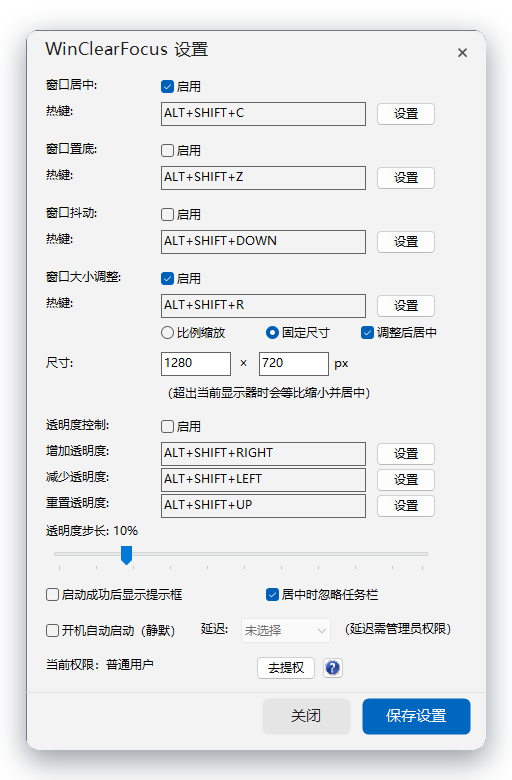
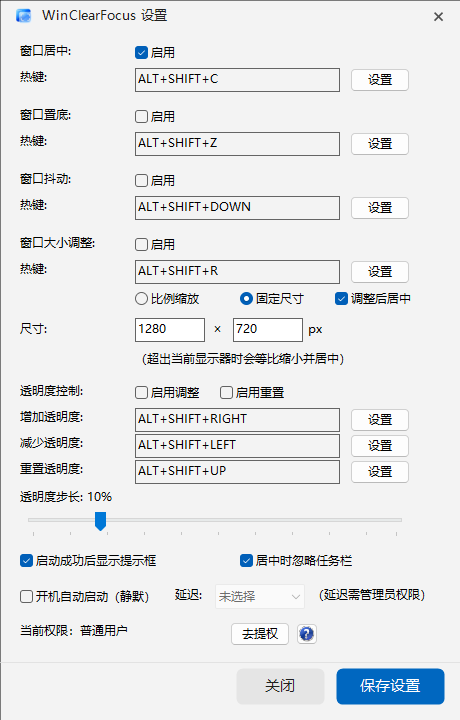
feat(ui): 应用中文名“窗口控制与聚焦”并优化标题栏
- 新增统一中文显示名，更新托盘 Tooltip、启动提示、README 与 exe 版本信息

- 启动提示改为原生对话框：标题栏显示程序图标 + WinClearFocus v1.2.0，正文精简

- 设置窗口标题栏改为 16px 程序图标 + 13px 常规字号，高度收紧到 32px

- 更新 README 截图（启动提示 / 比例缩放 / 固定尺寸）

- 修复 RC 中文编码（#pragma code_page 65001）

diff --git a/src/ui/SettingsRenderer.cpp b/src/ui/SettingsRenderer.cpp
@@ -2,11 +2,22 @@
 
 #include <gdiplus.h>
 
+#include "resource.h"
+
 namespace wcf {
 namespace SettingsRenderer {
 namespace {
 
 const COLORREF kSettingsBg = RGB(243, 243, 243);
+
+// 标题栏左侧的小图标。静态加载一次，随进程存活。
+HICON TitleIcon()
+{
+    static HICON icon = (HICON)LoadImageW(
+        GetModuleHandleW(NULL), MAKEINTRESOURCEW(IDI_WINCLEARFOCUS), IMAGE_ICON,
+        GetSystemMetrics(SM_CXSMICON), GetSystemMetrics(SM_CYSMICON), 0);
+    return icon;
+}
 
 void FillRoundedRect(Gdiplus::Graphics& g, const RECT& r, int radius,
                      const Gdiplus::Color& color)
@@ -45,7 +56,8 @@ HBRUSH BackgroundBrush()
 
 RECT CloseButtonRect(int clientWidth)
 {
-    RECT r = { clientWidth - 40, 6, clientWidth - 8, 38 };
+    // 28×28 热区，垂直居中于 32px 标题栏
+    RECT r = { clientWidth - 36, 2, clientWidth - 8, 30 };
     return r;
 }
 
@@ -90,12 +102,12 @@ void Paint(HWND hwnd, const HoverState& hover)
         Gdiplus::SolidBrush bg(Gdiplus::Color(243, 243, 243));
         g.FillRectangle(&bg, 0, 0, w, h);
 
-        // 标题
-        Gdiplus::Font titleFont(L"Microsoft YaHei UI", 17.0f,
+        // 标题：小图标在左（绘制于 GDI+ 之后），文字从图标右侧开始
+        Gdiplus::Font titleFont(L"Microsoft YaHei UI", 13.0f,
                                 Gdiplus::FontStyleRegular, Gdiplus::UnitPixel);
         Gdiplus::SolidBrush titleBrush(Gdiplus::Color(32, 32, 32));
         g.DrawString(L"WinClearFocus 设置", -1, &titleFont,
-                     Gdiplus::PointF(16.0f, 8.0f), &titleBrush);
+                     Gdiplus::PointF(40.0f, 7.0f), &titleBrush);
 
         // 关闭按钮：圆形，悬停变红
         const RECT cb = CloseButtonRect(w);
@@ -131,6 +143,15 @@ void Paint(HWND hwnd, const HoverState& hover)
         FillRoundedRect(g, xb, 6, hover.cancel ? Gdiplus::Color(214, 214, 214)
                                                : Gdiplus::Color(229, 229, 229));
         DrawCenteredText(g, L"关闭", xb, btnFont, Gdiplus::Color(32, 32, 32));
+    }
+
+    // GDI+ 绘制结束后再叠加标题栏小图标
+    HICON icon = TitleIcon();
+    if (icon) {
+        const int iconW = GetSystemMetrics(SM_CXSMICON);
+        const int iconH = GetSystemMetrics(SM_CYSMICON);
+        DrawIconEx(memDC, 16, (kTitleBarHeight - iconH) / 2, icon,
+                   iconW, iconH, 0, NULL, DI_NORMAL);
     }
 
     BitBlt(hdc, 0, 0, w, h, memDC, 0, 0, SRCCOPY);

diff --git a/src/ui/StartupDialog.cpp b/src/ui/StartupDialog.cpp
@@ -1,0 +1,77 @@
+#include "ui/StartupDialog.h"
+
+#include <stdio.h>
+
+#include "app/Constants.h"
+#include "resource.h"
+
+namespace wcf {
+namespace {
+
+HICON g_bigIcon = NULL;
+HICON g_smallIcon = NULL;
+
+INT_PTR CALLBACK StartupDialogProc(HWND hDlg, UINT uMsg, WPARAM wParam, LPARAM lParam)
+{
+    switch (uMsg) {
+    case WM_INITDIALOG:
+    {
+        // 标题栏：程序图标 + 英文名 + 版本
+        SetWindowTextW(hDlg, L"WinClearFocus " WCF_APP_VERSION);
+
+        g_bigIcon = (HICON)LoadImageW(
+            GetModuleHandleW(NULL), MAKEINTRESOURCEW(IDI_WINCLEARFOCUS), IMAGE_ICON,
+            GetSystemMetrics(SM_CXICON), GetSystemMetrics(SM_CYICON), 0);
+        g_smallIcon = (HICON)LoadImageW(
+            GetModuleHandleW(NULL), MAKEINTRESOURCEW(IDI_WINCLEARFOCUS), IMAGE_ICON,
+            GetSystemMetrics(SM_CXSMICON), GetSystemMetrics(SM_CYSMICON), 0);
+
+        if (g_bigIcon) {
+            SendMessageW(hDlg, WM_SETICON, ICON_BIG, (LPARAM)g_bigIcon);
+        }
+        if (g_smallIcon) {
+            SendMessageW(hDlg, WM_SETICON, ICON_SMALL, (LPARAM)g_smallIcon);
+        }
+
+        wchar_t line1[128];
+        swprintf_s(line1, 128, L"%s已在系统托盘运行。", WCF_APP_NAME_ZH);
+        SetDlgItemTextW(hDlg, IDC_STARTUP_LINE1, line1);
+        SetDlgItemTextW(hDlg, IDC_STARTUP_LINE2, L"右键点击托盘图标进行设置。");
+        SetDlgItemTextW(hDlg, IDC_STARTUP_LINE3, L"提示：命令行加 -silent 可静默启动");
+        return TRUE;
+    }
+
+    case WM_COMMAND:
+        if (LOWORD(wParam) == IDOK || LOWORD(wParam) == IDCANCEL) {
+            EndDialog(hDlg, LOWORD(wParam));
+            return TRUE;
+        }
+        break;
+
+    case WM_CLOSE:
+        EndDialog(hDlg, IDCANCEL);
+        return TRUE;
+    }
+
+    return FALSE;
+}
+
+} // namespace
+
+void ShowStartupDialog(HINSTANCE hInstance, HWND owner)
+{
+    DialogBoxParamW(hInstance, MAKEINTRESOURCEW(IDD_STARTUP_DIALOG), owner,
+                    StartupDialogProc, 0);
+
+    // 对话框关闭后再释放标题栏图标
+    if (g_bigIcon) {
+        DestroyIcon(g_bigIcon);
+        g_bigIcon = NULL;
+    }
+    if (g_smallIcon) {
+        DestroyIcon(g_smallIcon);
+        g_smallIcon = NULL;
+    }
+}
+
+} // namespace wcf

diff --git a/src/main.cpp b/src/main.cpp
@@ -2,7 +2,6 @@
 #include <commctrl.h>
 #include <gdiplus.h>
 #include <shellapi.h>
-#include <stdio.h>
 
 #include "app/AppContext.h"
 #include "app/Constants.h"
@@ -10,6 +9,7 @@
 #include "core/HotkeyManager.h"
 #include "core/Settings.h"
 #include "ui/MainWindow.h"
+#include "ui/StartupDialog.h"
 #include "ui/TrayIcon.h"
 
 namespace {
@@ -82,21 +82,10 @@ int WINAPI WinMain(HINSTANCE hInstance, HINSTANCE hPrevInstance,
     wcf::TrayIcon::Create(wcf::g_mainWindow);
     wcf::RegisterHotkeys(wcf::g_mainWindow);
 
-    // 显示启动提示：命令行 -silent 绝对静默；否则由 config.ini 决定
+    // 显示启动提示：命令行 -silent 绝对静默；否则由 config.ini 决定。
+    // 使用原生对话框，标题栏显示程序图标 + 英文名 + 版本。
     if (!forceSilent && wcf::Settings().showStartupMessage != 0) {
-        wchar_t startupMsg[600];
-        swprintf_s(startupMsg, 600,
-            L"WinClearFocus %s 已启动！\n\n默认热键：\n"
-            L"- Alt+Shift+C 窗口居中\n"
-            L"- Alt+Shift+↓ 窗口抖动（默认关闭）\n"
-            L"- Alt+Shift+←/→ 调整窗口透明度（默认关闭）\n"
-            L"- Alt+Shift+↑ 重置透明度（默认关闭）\n"
-            L"- Alt+Shift+Z 窗口置底（默认关闭）\n"
-            L"- Alt+Shift+R 调整窗口大小（默认关闭）\n\n"
-            L"右键点击托盘图标进行设置\n\n"
-            L"提示：命令行加 -silent 可静默启动",
-            WCF_APP_VERSION);
-        MessageBoxW(NULL, startupMsg, L"WinClearFocus 启动成功", MB_OK | MB_ICONINFORMATION);
+        wcf::ShowStartupDialog(hInstance, wcf::g_mainWindow);
     }
 
     // 消息循环

diff --git a/src/ui/MainWindow.cpp b/src/ui/MainWindow.cpp
@@ -67,15 +67,20 @@ LRESULT CALLBACK MainWindowProc(HWND hwnd, UINT uMsg, WPARAM wParam, LPARAM lPar
 
 bool InitializeMainWindow(HINSTANCE hInstance)
 {
-    WNDCLASSW wc = { 0 };
+    WNDCLASSEXW wc = { 0 };
+    wc.cbSize = sizeof(wc);
     wc.lpfnWndProc = MainWindowProc;
     wc.hInstance = hInstance;
     wc.lpszClassName = WCF_MAIN_WINDOW_CLASS;
     wc.hCursor = LoadCursorW(NULL, IDC_ARROW);
     wc.hbrBackground = (HBRUSH)(COLOR_WINDOW + 1);
     wc.hIcon = LoadIconW(hInstance, MAKEINTRESOURCEW(IDI_WINCLEARFOCUS));
+    wc.hIconSm = (HICON)LoadImageW(hInstance, MAKEINTRESOURCEW(IDI_WINCLEARFOCUS),
+                                  IMAGE_ICON,
+                                  GetSystemMetrics(SM_CXSMICON),
+                                  GetSystemMetrics(SM_CYSMICON), 0);
 
-    if (!RegisterClassW(&wc)) {
+    if (!RegisterClassExW(&wc)) {
         return false;
     }
 

diff --git a/src/ui/SettingsWindow.cpp b/src/ui/SettingsWindow.cpp
@@ -585,12 +585,10 @@ void ShowSettingsWindow()
     const int y = (screenHeight - windowHeight) / 2;
 
     // 无边框窗口；标题栏、圆角和底部按钮由自绘/DWM 提供
-    wchar_t windowTitle[100];
-    swprintf_s(windowTitle, 100, L"WinClearFocus %s 设置", WCF_APP_VERSION);
     g_settingsWindow = CreateWindowExW(
         WS_EX_APPWINDOW,
         WCF_SETTINGS_WINDOW_CLASS,
-        windowTitle,
+        L"WinClearFocus 设置",
         WS_POPUP | WS_CLIPCHILDREN,
         x, y,
         windowWidth, windowHeight,

diff --git a/src/ui/TrayIcon.cpp b/src/ui/TrayIcon.cpp
@@ -29,7 +29,7 @@ void Create(HWND owner)
     }
 
     swprintf_s(g_nid.szTip, sizeof(g_nid.szTip) / sizeof(wchar_t),
-               L"WinClearFocus %s - 窗口透明度控制", WCF_APP_VERSION);
+               L"WinClearFocus %s - %s", WCF_APP_VERSION, WCF_APP_NAME_ZH);
 
     Shell_NotifyIconW(NIM_ADD, &g_nid);
 }

diff --git a/res/resource.h b/res/resource.h
@@ -3,4 +3,8 @@
 // 供 WinClearFocus.rc 使用
 //
 #define IDI_WINCLEARFOCUS                101
+#define IDD_STARTUP_DIALOG               102
+#define IDC_STARTUP_LINE1                1003
+#define IDC_STARTUP_LINE2                1004
+#define IDC_STARTUP_LINE3                1005
 

diff --git a/src/ui/StartupDialog.h b/src/ui/StartupDialog.h
@@ -1,0 +1,10 @@
+#pragma once
+
+#include <windows.h>
+
+namespace wcf {
+
+// 显示启动提示对话框（模态）。标题栏显示程序图标 + 英文名 + 版本。
+void ShowStartupDialog(HINSTANCE hInstance, HWND owner);
+
+} // namespace wcf

diff --git a/src/ui/SettingsRenderer.h b/src/ui/SettingsRenderer.h
@@ -5,7 +5,7 @@
 namespace wcf {
 namespace SettingsRenderer {
 
-constexpr int kTitleBarHeight = 36;
+constexpr int kTitleBarHeight = 32;
 constexpr int kWindowWidth = 460;
 constexpr int kWindowHeight = 720;   // 紧凑排版，适配 1366x768
 

diff --git a/src/app/Constants.h b/src/app/Constants.h
@@ -2,6 +2,7 @@
 
 // ===== 应用信息 =====
 #define WCF_APP_VERSION L"v1.2.0"
+#define WCF_APP_NAME_ZH L"窗口控制与聚焦"
 
 // ===== 窗口类名 =====
 #define WCF_MAIN_WINDOW_CLASS     L"WinClearFocusClass"

diff --git a/README.md b/README.md
@@ -3,8 +3,9 @@
 <img src="res/WinClearFocus.ico" width="128"/>
 </div>
 <h1 align="center">WinClearFocus</h1>
+<p align="center"><b>窗口控制与聚焦</b></p>
 
-<p align="center">一个轻量级的 Windows 窗口辅助工具：调透明度、居中、置底、抖动——全部一个热键搞定。</p>
+<p align="center">一个轻量级的 Windows 窗口辅助工具：调透明度、居中、置底、抖动、调整尺寸——全部一个热键搞定。</p>
 
 <p align="center">
   <img alt="Platform" src="https://img.shields.io/badge/Platform-Windows%2010%20%7C%2011-0078D4?logo=windows&logoColor=white">
@@ -14,7 +15,7 @@
   <img alt="Size" src="https://img.shields.io/badge/Binary-%E7%BA%A6%201%20MB-brightgreen">
 </p>
 
-WinClearFocus 基于 [iwill123/Window2Clear](https://github.com/iwill123/Window2Clear) 二次开发，使用 **C++ + 纯 Win32 API** 实现，不使用任何第三方 UI 框架。单文件绿色运行、托盘常驻，界面由 GDI+ 自绘并启用 Windows 11 视觉样式。
+WinClearFocus（窗口控制与聚焦）基于 [iwill123/Window2Clear](https://github.com/iwill123/Window2Clear) 二次开发，使用 **C++ + 纯 Win32 API** 实现，不使用任何第三方 UI 框架。单文件绿色运行、托盘常驻，界面由 GDI+ 自绘并启用 Windows 11 视觉样式。
 
 ## 📸 界面预览
 
@@ -25,6 +26,12 @@ WinClearFocus 基于 [iwill123/Window2Clear](https://github.com/iwill123/Window2
 </p>
 
 <p align="center"><sub>设置界面 · 比例缩放 / 固定尺寸</sub></p>
+
+<p align="center">
+  <img src="docs/startup.png" width="320" alt="启动提示">
+</p>
+
+<p align="center"><sub>启动提示 · 程序图标 + 英文名</sub></p>
 
 ## ✨ 核心特性
 
@@ -206,7 +213,8 @@ WinClearFocus/
 ├── docs/
 │   ├── config.ini.sample        # 默认配置模板
 │   ├── settings-percent.png     # 设置界面截图 · 比例缩放
-│   └── settings-fixed.png       # 设置界面截图 · 固定尺寸
+│   ├── settings-fixed.png       # 设置界面截图 · 固定尺寸
+│   └── startup.png              # 启动提示截图
 ├── res/
 │   ├── resource.h
 │   ├── WinClearFocus.rc         # 图标与 manifest 资源
@@ -246,6 +254,9 @@ WinClearFocus/
 
 **新增 / 改进**
 
+- 新增中文显示名 **“窗口控制与聚焦”**
+- 精简启动提示，正文只保留托盘运行与设置入口；标题栏显示程序图标 + 英文名
+- 设置窗口标题栏改为小图标 + 常规字号，更接近系统原生标题栏
 - 完成源码模块化重构：按 `app / core / ui / util` 分层，单文件拆分为独立模块
 - 新增“启用重置”独立开关：即使关闭透明度调整，也能单独启用重置热键
 - 尺寸调整预览与居中位置统一遵循“居中时忽略任务栏”，切换后立即刷新
